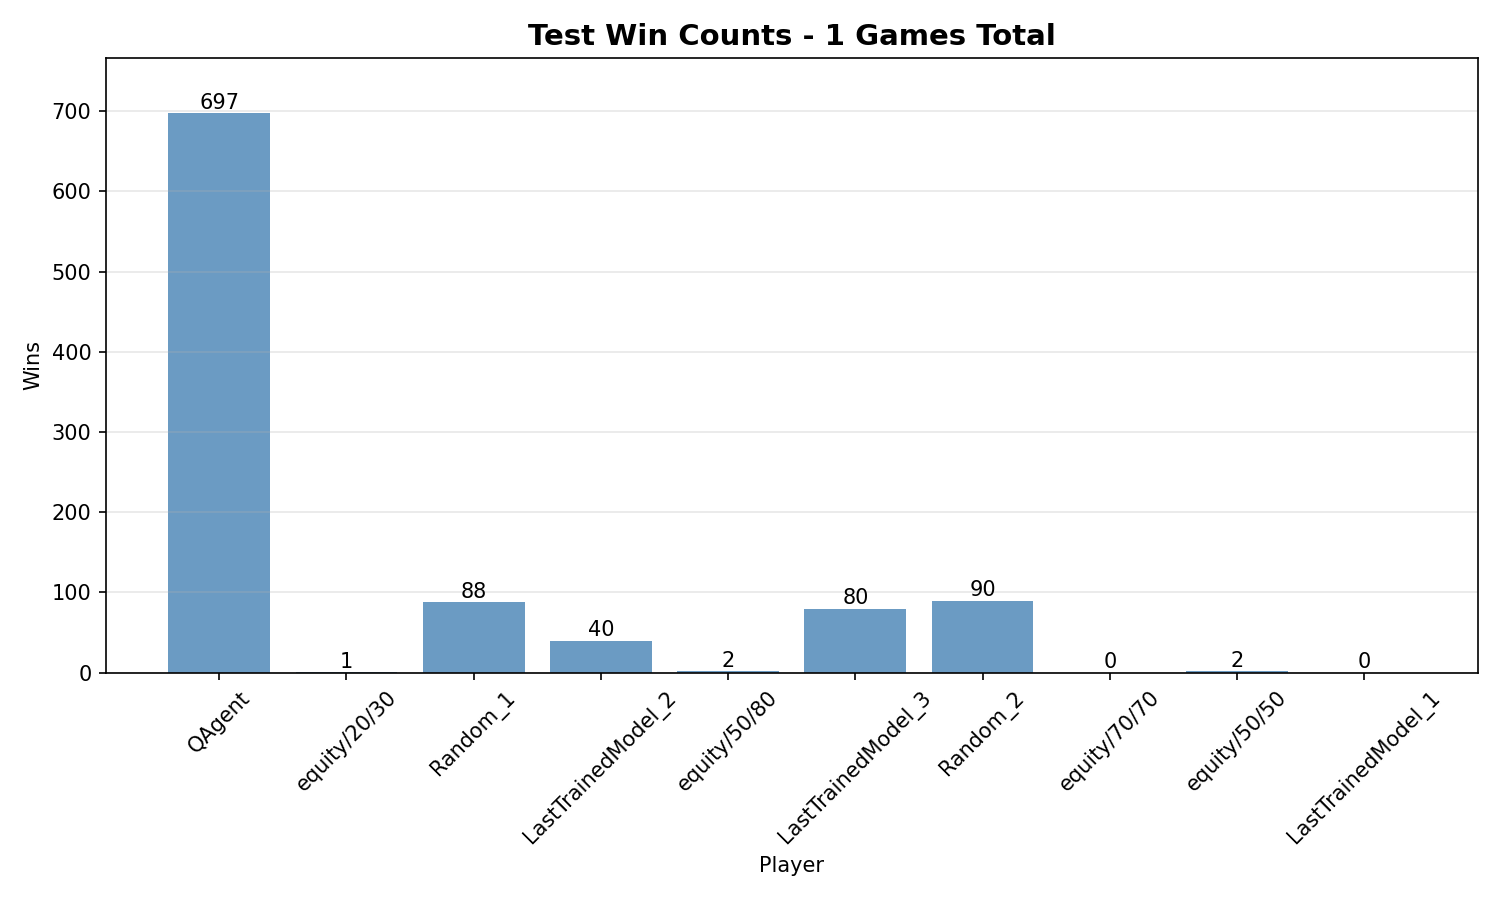
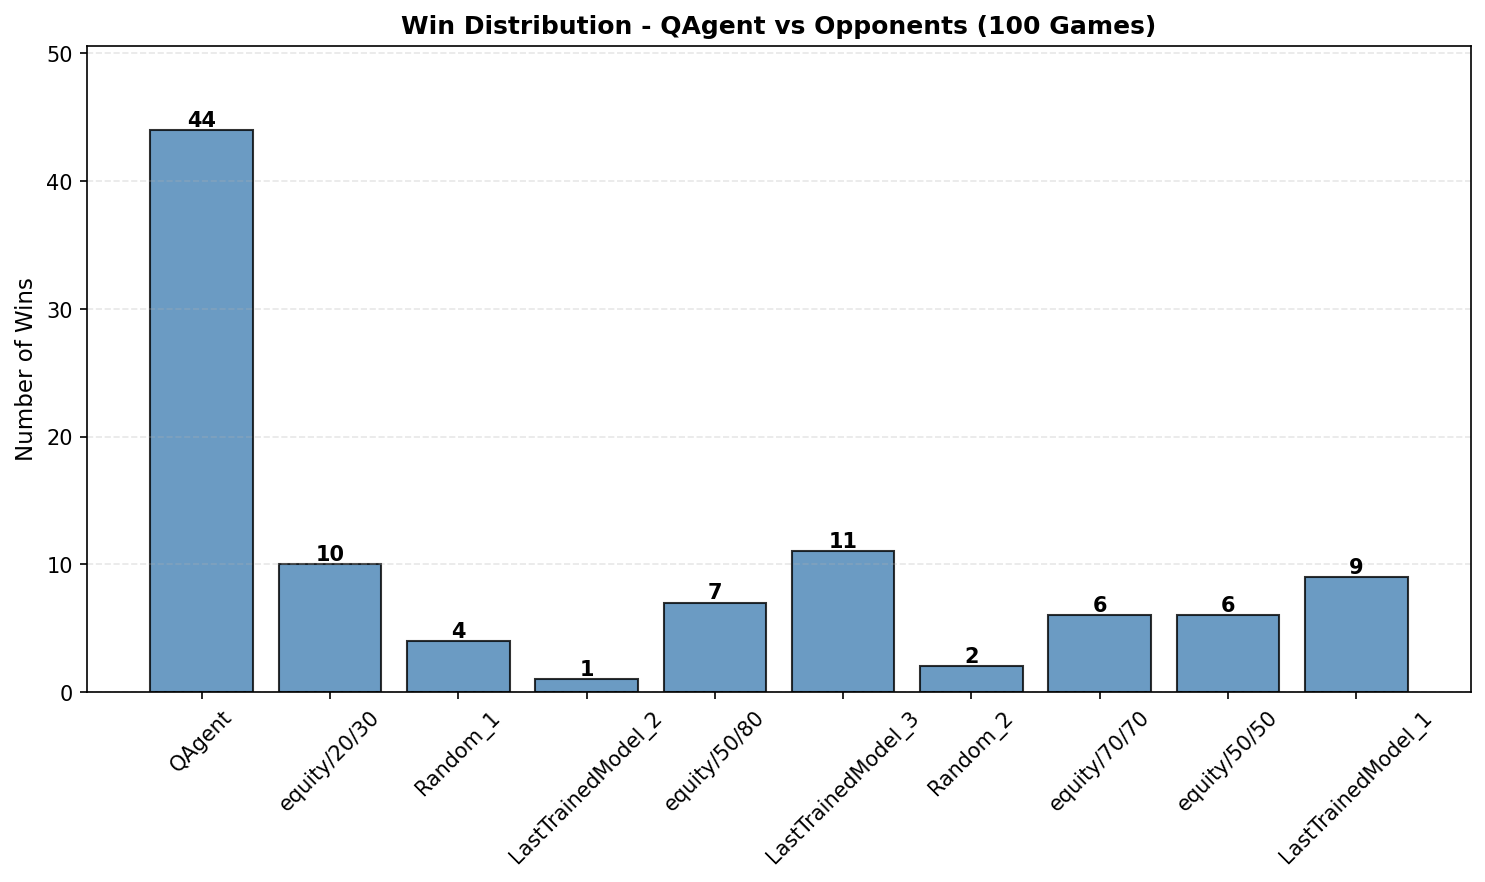
Improved testing visualization and ran small 100 episode test

diff --git a/main.py b/main.py
@@ -260,114 +260,106 @@ class SelfPlay:
         print(league_table)
         print(f"Best Player: {best_player}")
 
-    def my_agent_test(self, agent, weights_path, save_file="temp_name", test_episodes=1000):
+
+    def my_agent_test(self, agent, weights_path, save_file="temp_name", test_episodes=100):
         """
-        Test the agent using loaded weights.
-        Tracks win counts and produces a bar graph.
+        Test the agent using loaded weights against opponents.
+        Tracks win counts and visualizes results.
         """
         import matplotlib.pyplot as plt
+        import numpy as np
+        from datetime import datetime
 
-        # Load trained weights and configure for testing
+        # Configure agent for testing (no learning, no exploration)
         agent.load_weights(weights_path)
-        agent.isNotLearning = True  # Disable learning during testing
-        agent.epsilon = 0.0      # Disable exploration
+        agent.isNotLearning = True
+        agent.epsilon = 0.0
 
-        # Track wins per player
+        # Initialize tracking
         player_names = [p.name for p in self.env.unwrapped.players]
         win_counts = {name: 0 for name in player_names}
 
-        # Additional metrics
-        total_rewards = {name: 0.0 for name in player_names}
-        episode_lengths = []
+        print("=" * 60)
+        print(f"TESTING AGENT: {test_episodes} episodes")
+        print(f"Agent: {agent.name}")
+        print(f"Opponents: {', '.join([n for n in player_names if n != agent.name])}")
+        print("=" * 60)
 
-        print("### Starting Testing Phase ###")
         start_time = datetime.now()
 
+        # Run test episodes
         for ep in range(test_episodes):
-            print(f"[TEST] Episode {ep + 1}/{test_episodes}")
+            print(f"Progress: {ep + 1}/{test_episodes} episodes completed")
 
-            # Reset environment - this runs the entire episode
-            self.env.reset()
+            # Run full episode
+            obs, info = self.env.reset()
 
-            # Get final results from the completed episode
-            if len(agent.episode_history) == 0:
-                print(f"[TEST] WARNING: Episode {ep + 1} - episode_history empty, skipping...")
-                continue
-            
-            # Find the last non-marker entry in history
-            last_info = None
-            for info, _ in reversed(agent.episode_history):
-                if info is not None:
-                    last_info = info
-                    break
+            # Get final stacks from the info dictionary
+            # The stacks are normalized by (BB * 100), so multiply back
+            if info and 'player_data' in info:
+                final_stacks = np.array(info['player_data']['stack']) * (self.big_blind * 100)
+            else:
+                # Fallback: try to get from environment's funds_history
+                env_unwrapped = self.env.unwrapped
+                if hasattr(env_unwrapped, 'funds_history') and len(env_unwrapped.funds_history) > 0:
+                    final_stacks = env_unwrapped.funds_history.iloc[-1].values
+                else:
+                    print(f"[WARNING] Episode {ep + 1}: No final stack data available")
+                    continue
                 
-            if last_info is None:
-                print(f"[TEST] WARNING: Episode {ep + 1} - no valid info in history, skipping...")
-                continue
-            agent.episode_history = []  # Clear history for next episode
-
-            # Extract final stacks from player_data
-            player_data = last_info['player_data']
-            final_funds = np.array(player_data['stack']) * (self.big_blind * 100)
-            
-            # Determine winner and update metrics
-            winner_index = final_funds.argmax()
-            winner_name = player_names[winner_index]
+            # Determine winner (player with highest stack)
+            winner_idx = np.argmax(final_stacks)
+            winner_name = player_names[winner_idx]
             win_counts[winner_name] += 1
 
-            # Track total funds for each player
-            for i, name in enumerate(player_names):
-                total_rewards[name] += final_funds[i]
+            # Clear agent history for next episode
+            agent.episode_history = []
 
-            # Count actual actions (exclude markers)
-            action_count = sum(1 for info, _ in agent.episode_history if info is not None)
-            episode_lengths.append(action_count)
-
-        print("\n### Testing Finished ###")
         end_time = datetime.now()
-        time_difference = end_time - start_time
+        duration = end_time - start_time
 
-        print(f"Start time: {start_time}")
-        print(f"End time: {end_time}")
-        print(f"Duration: {time_difference}")
-        print(f"Average episode length: {np.mean(episode_lengths):.2f} actions")
+        # ========== RESULTS SUMMARY ==========
+        print("\n" + "=" * 60)
+        print("TEST RESULTS")
+        print("=" * 60)
+        print(f"Duration: {duration}")
+        print(f"Average time per episode: {duration.total_seconds() / test_episodes:.2f}s")
+        print(f"\nWin Distribution:")
 
-        print("\n### TEST RESULTS ###")
-        valid_episodes = sum(win_counts.values())
-        print(f"Valid episodes: {valid_episodes}/{test_episodes}")
+        for name in player_names:
+            win_pct = (win_counts[name] / test_episodes) * 100
+            print(f"  {name:20s}: {win_counts[name]:4d} wins ({win_pct:5.1f}%)")
 
-        # --------- Visualization ---------
+        print("=" * 60)
+
+        # ========== VISUALIZATION ==========
         fig, ax = plt.subplots(figsize=(10, 6))
 
-        # Win counts bar chart - Store the bar container for labeling
-        bars = ax.bar(win_counts.keys(), win_counts.values(), color='steelblue', alpha=0.8)
-        
-        # 🎯 Add the number of wins as labels above the bars
+        # Win Counts Bar Chart
+        bars = ax.bar(win_counts.keys(), win_counts.values(), color='steelblue', alpha=0.8, edgecolor='black')
+        ax.set_ylabel("Number of Wins", fontsize=11)
+        ax.set_title(f"Win Distribution - {agent.name} vs Opponents ({test_episodes} Games)", 
+                     fontsize=12, fontweight='bold')
+        ax.grid(axis='y', alpha=0.3, linestyle='--')
+        ax.tick_params(axis='x', rotation=45)
+
+        # Add win count labels on bars
         for bar in bars:
             height = bar.get_height()
-            # Use ax.text to place the label at the top center of the bar
-            ax.text(
-                bar.get_x() + bar.get_width() / 2.,  # x-position: center of the bar
-                height + 0.5,                        # y-position: slightly above the bar
-                f'{height}',                         # The text to display (the win count)
-                ha='center',                         # Horizontal alignment: center
-                va='bottom'                          # Vertical alignment: bottom
-            )
-    
-        ax.set_title(f"Test Win Counts - {test_episodes} Games Total", fontsize=14, fontweight='bold')
-        ax.set_xlabel("Player")
-        ax.set_ylabel("Wins")
-        ax.tick_params(axis='x', rotation=45)
-        ax.grid(axis='y', alpha=0.3)
-        
-        # Optional: Adjust y-axis limit to accommodate the labels
+            ax.text(bar.get_x() + bar.get_width() / 2., height,
+                    f'{int(height)}',
+                    ha='center', va='bottom', fontsize=10, fontweight='bold')
+
+        # Adjust y-limit for label space
         max_wins = max(win_counts.values()) if win_counts.values() else 0
-        ax.set_ylim(0, max_wins * 1.1) # Set max Y-limit to 110% of the max win count
-    
+        ax.set_ylim(0, max_wins * 1.15)
+
         plt.tight_layout()
+
+        # Save plot
         save_file += "_test_results.png"
-        plt.savefig(save_file, dpi=150)
-        print(f"\nPlot saved to: {save_file}")
+        plt.savefig(save_file, dpi=150, bbox_inches='tight')
+        print(f"\nVisualization saved to: {save_file}")
         plt.show()
 
 
@@ -464,7 +456,6 @@ class SelfPlay:
             if weights_file is None:
                 raise ValueError("weights_file must be provided when test_mode=True.")
 
-            print("### Running AGENT TEST MODE ###")
             self.my_agent_test(
                 agent=training_agent,
                 weights_path=weights_file,

diff --git a/agents/agent_my_agent.py b/agents/agent_my_agent.py
@@ -729,15 +729,9 @@ class Player:
         )
 
         # --- 4. Training Session Info (New Feature) ---
-
-        # NOTE: You must replace the placeholder values below with the actual attributes 
-        # from your class (e.g., self.num_episodes, self.epsilon_start, etc.)
-        # I am using hardcoded values based on the implied context.
-
-        # Assuming these are available as attributes in 'self'
         training_info = f"""
                         Episodes: {self.num_episodes}
-                        Epsilon: {self.epsilon} > {self.epsilon_min} (decay={self.epsilon_decay})
+                        Epsilon: 1.0 > {self.epsilon_min} (decay={self.epsilon_decay})
                         Alpha (LR): {self.alpha}
                         Gamma-Discount: {self.gamma}
                         Passes: {self.num_update_passes}
